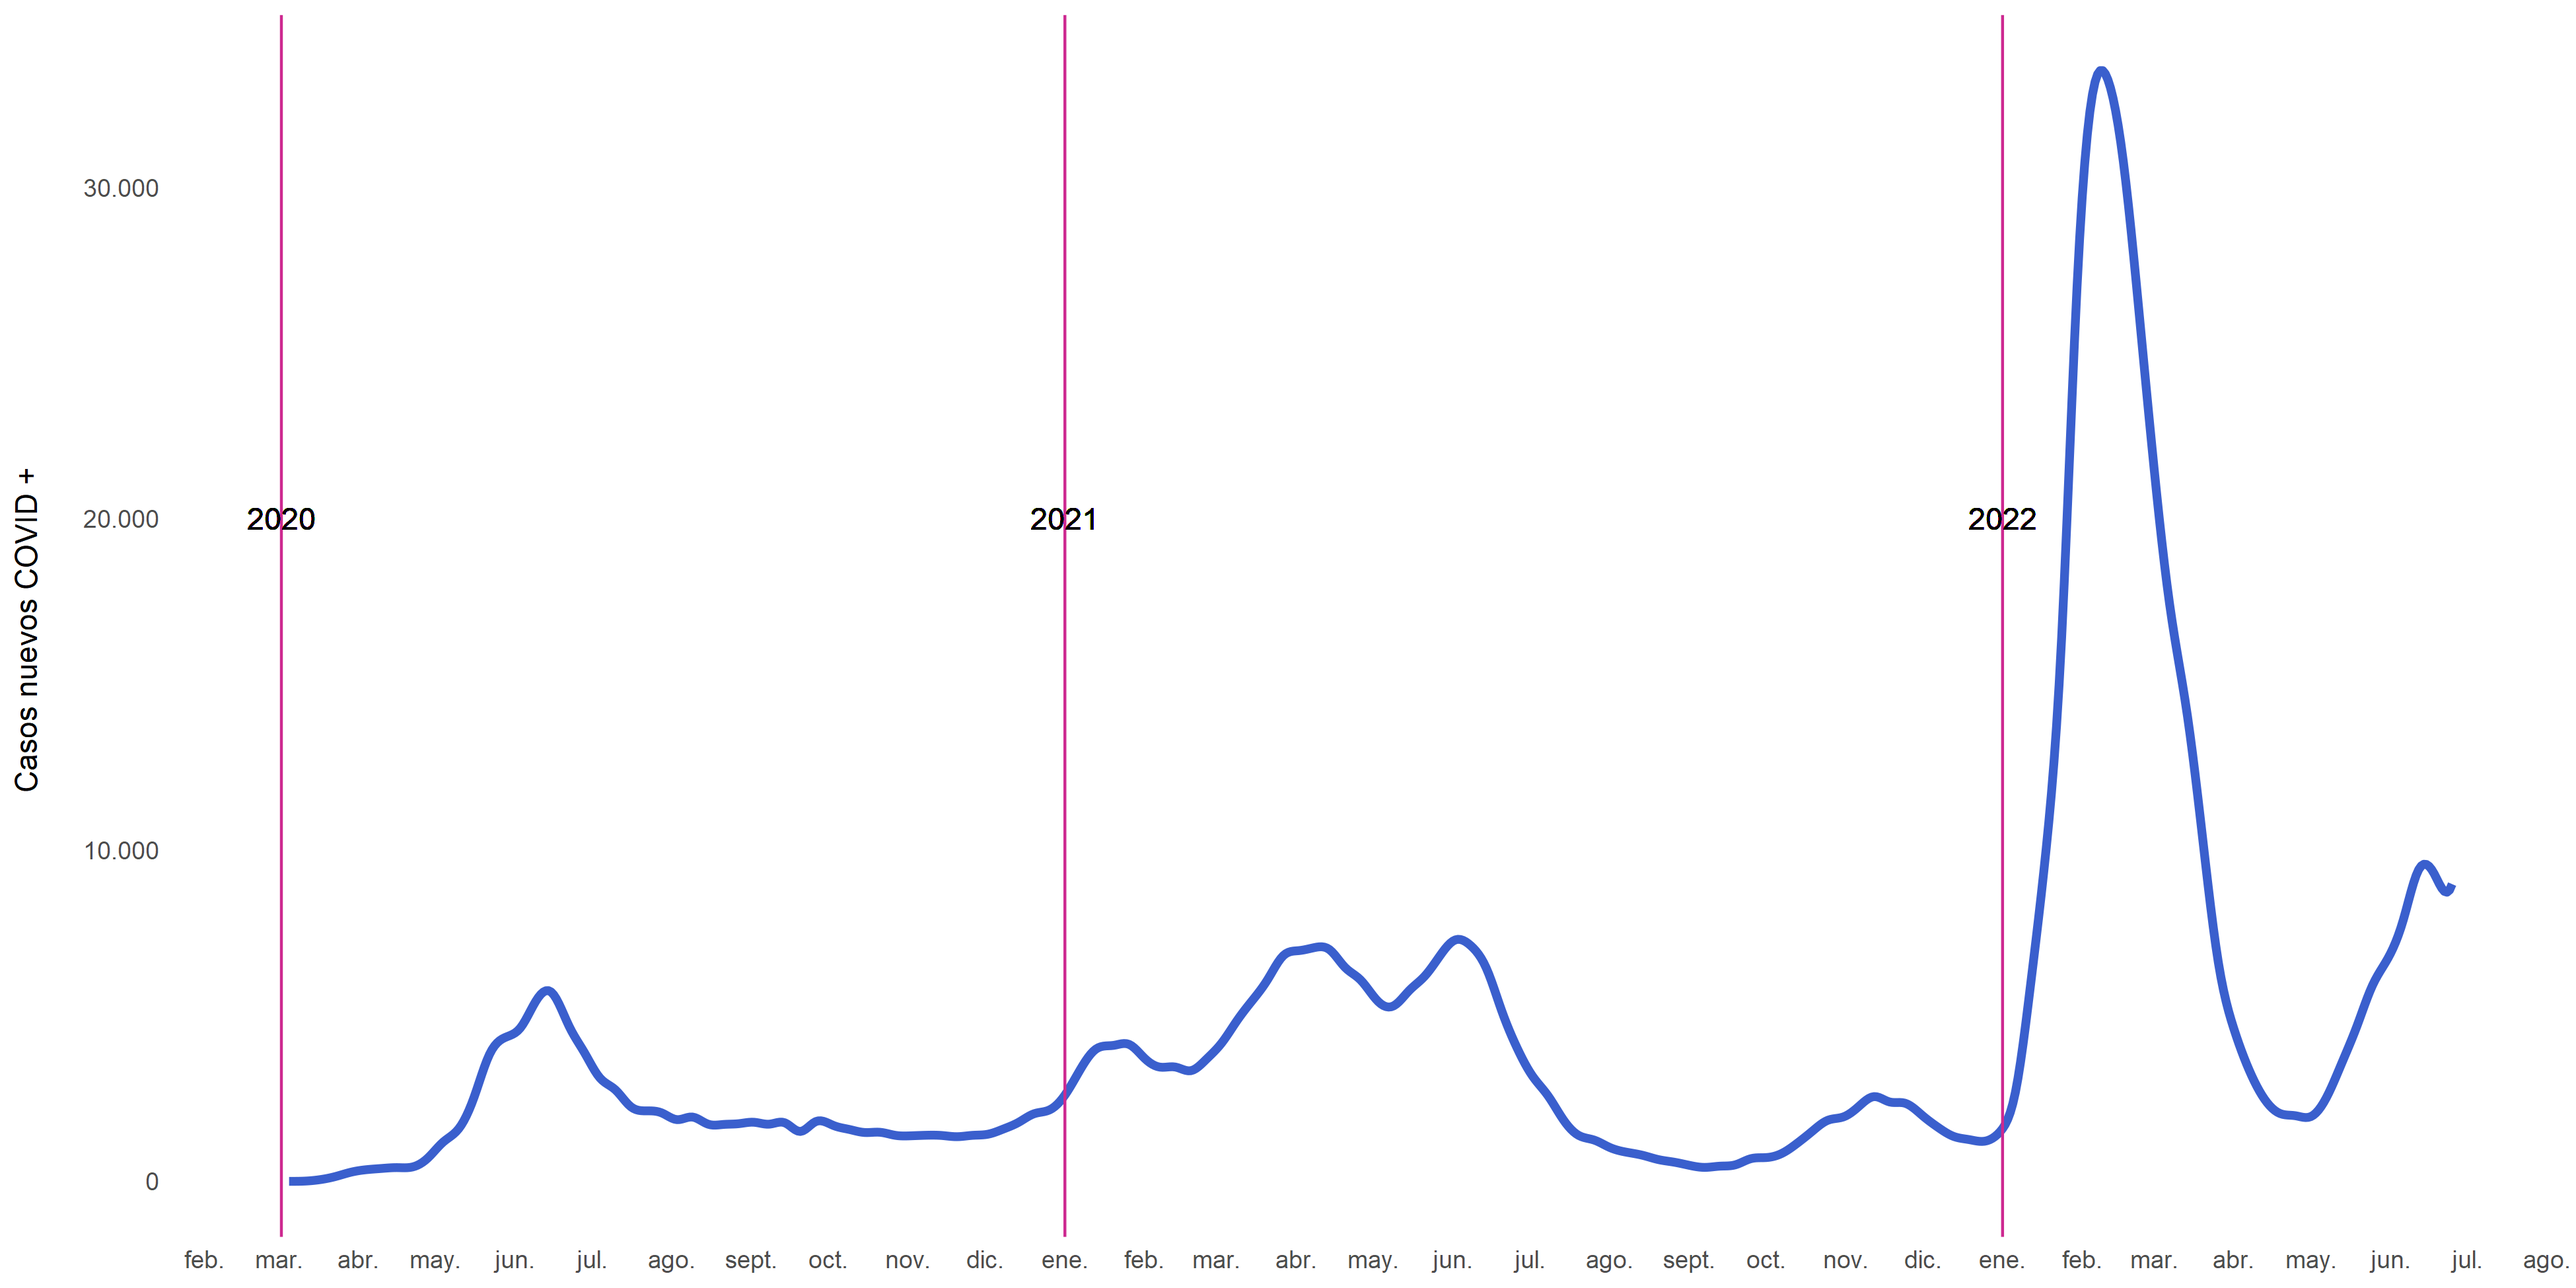
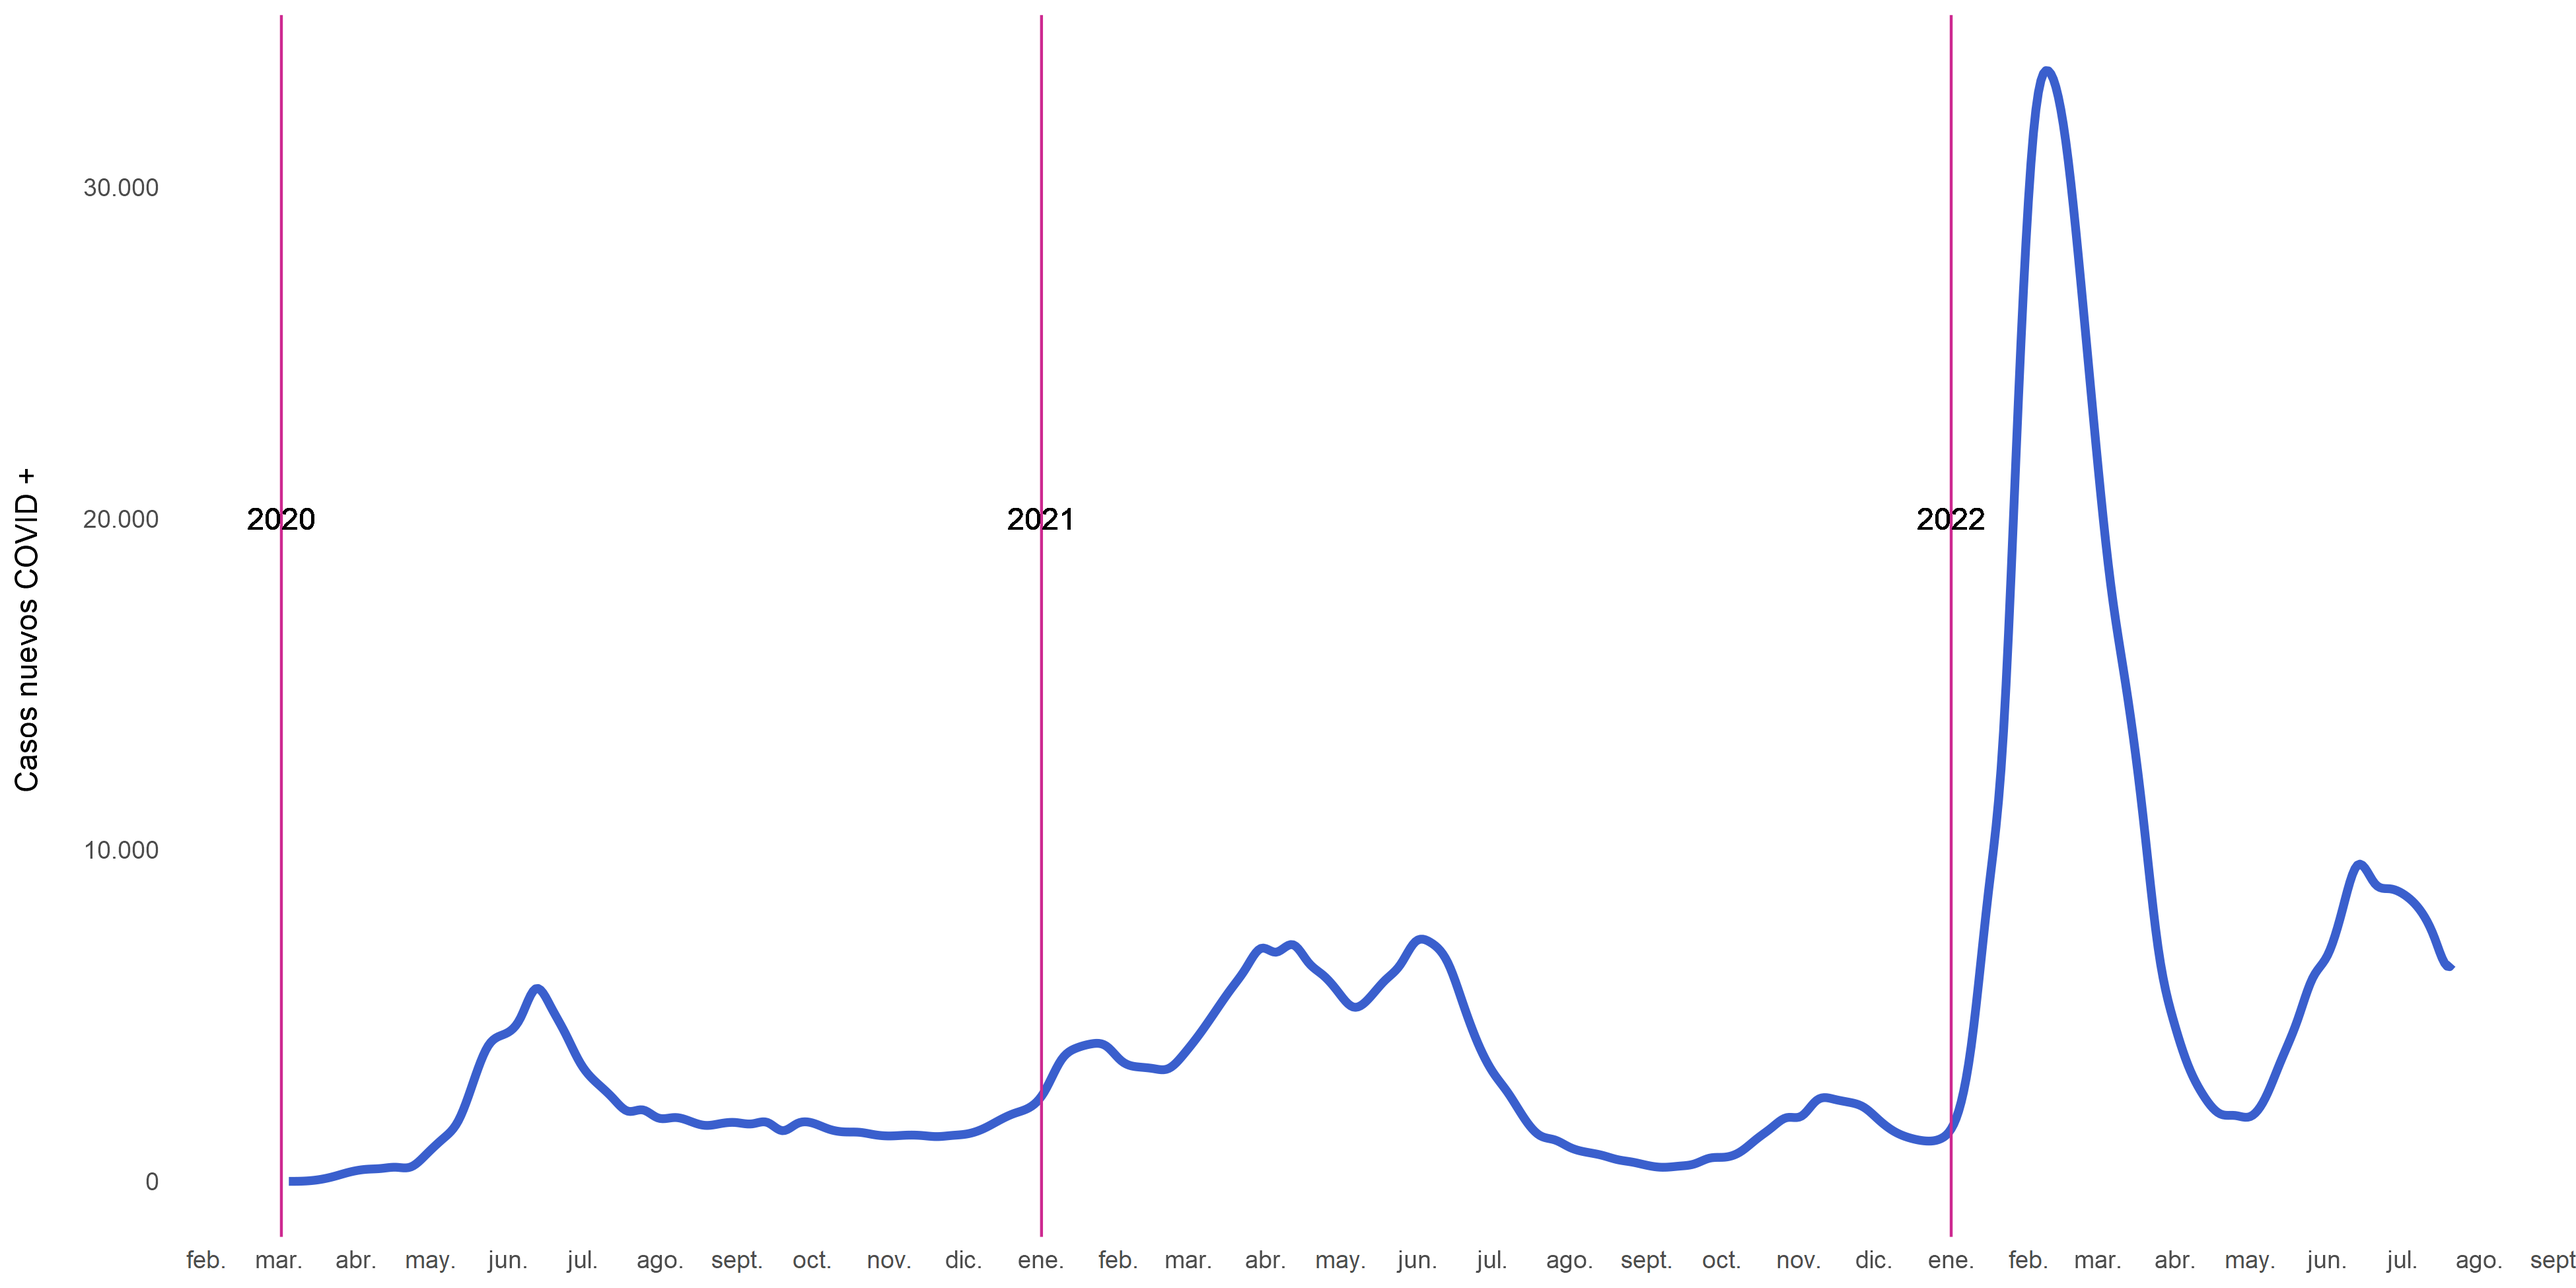
F5 25_07_22

diff --git a/README.md b/README.md
@@ -1,6 +1,6 @@
 # covid_scl
 
-COVID's situation in Chile. **Last update: 28-06-2022**
+COVID's situation in Chile. **Last update: 25-07-2022**
 
 ## COVID stripes
 
